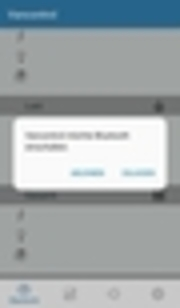
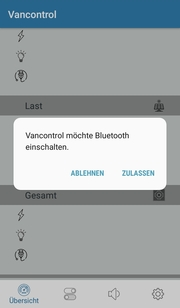
updated readme

diff --git a/README.md b/README.md
@@ -52,7 +52,7 @@ At the moment, the app is in german language but by adjusting *vancontrol/androi
 ### Home Screen
 Opens when starting the app. If Bluetooth switched off, it asks to turn on Bluetooth:
 
-![Turn on Bluetooth?](resources/App%20Screenshots/turn_on_bt.jpg) 
+![Turn on Bluetooth?](resources/App%20Screenshots/padded/turn_on_bt.jpg) 
 
 Then it tries to connect to the RaspberryPi (indicated by th Bluetooth Banner with the loading sphere on Top):
 
